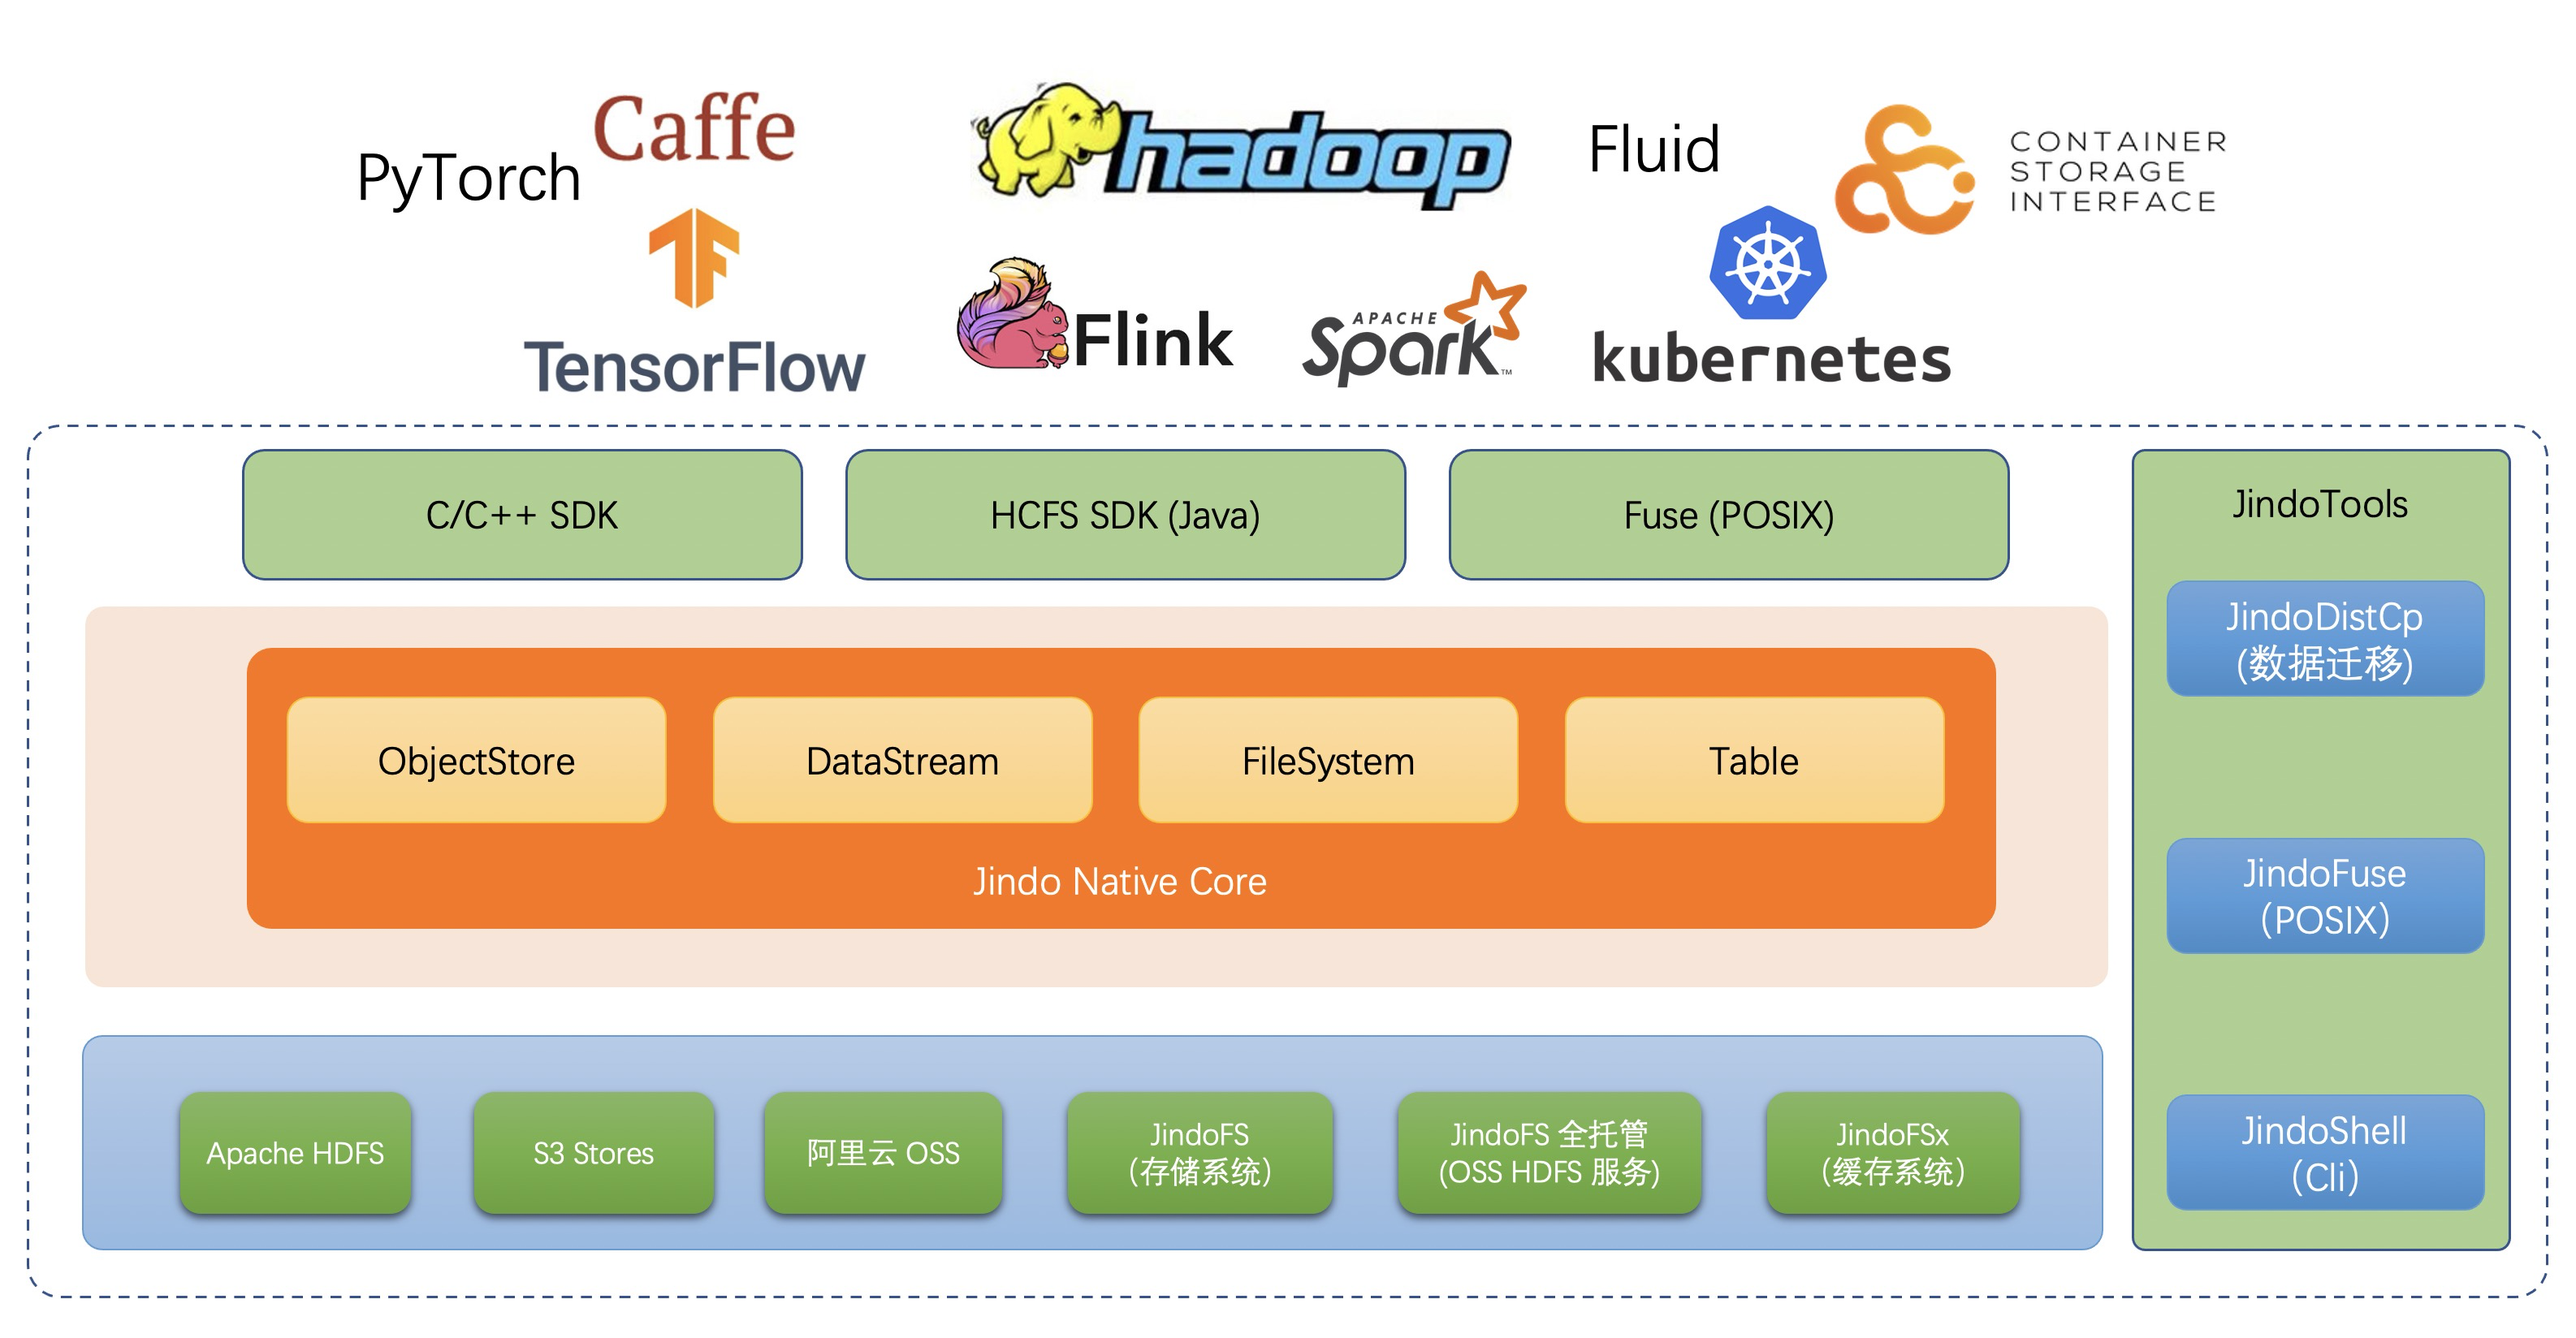
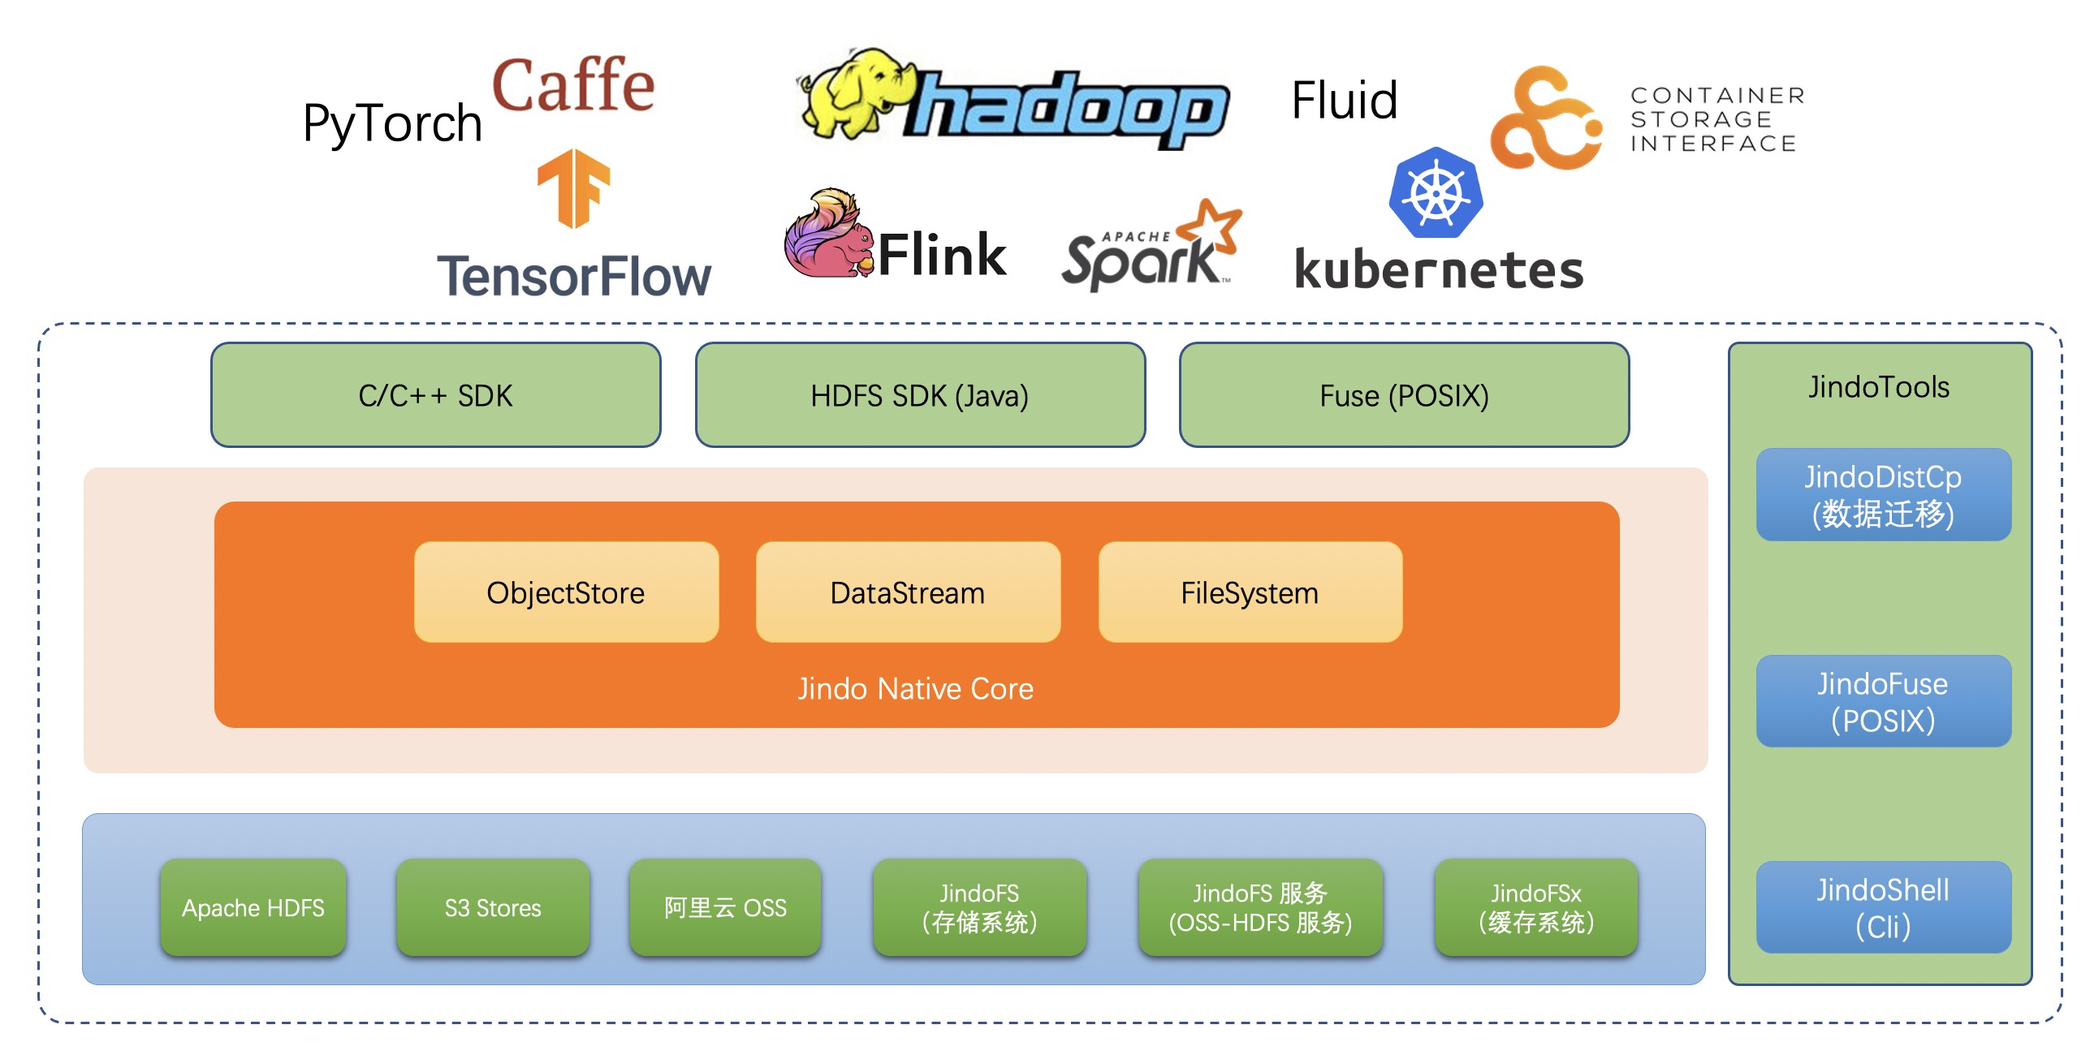
update readme.

diff --git a/README.md b/README.md
@@ -22,6 +22,9 @@ IDC 机房数据（HDFS）上云迁移和多云迁移利器，支持多种存储
 ### 生态插件
 除了默认提供 JindoSDK 支持 Hadoop，另外还支持 Flink Connector 等插件。
 
+## JindoData 架构部署
+![JindoData](docs/image/jindodata-deploy.png)
+
 ## 发布版本
 #### JindoData 4.0.0，2022-01-07，[Release Note](docs/user/4.x/jindodata-4.0.0-release-notes.md)
 #### JindoData 3.x 版本，[原阿里云 E-MapReduce SmartData](https://help.aliyun.com/document_detail/121090.html)
